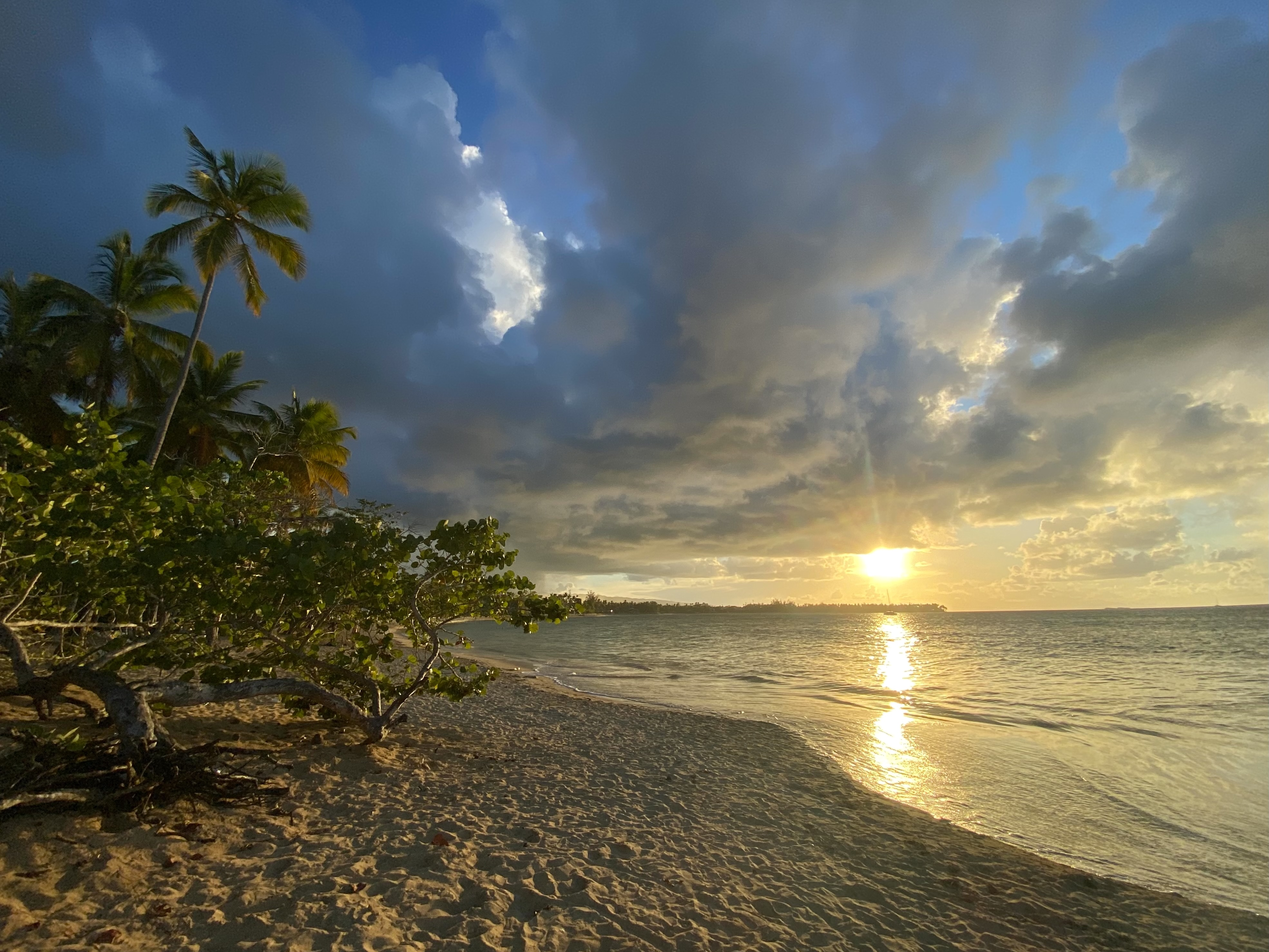
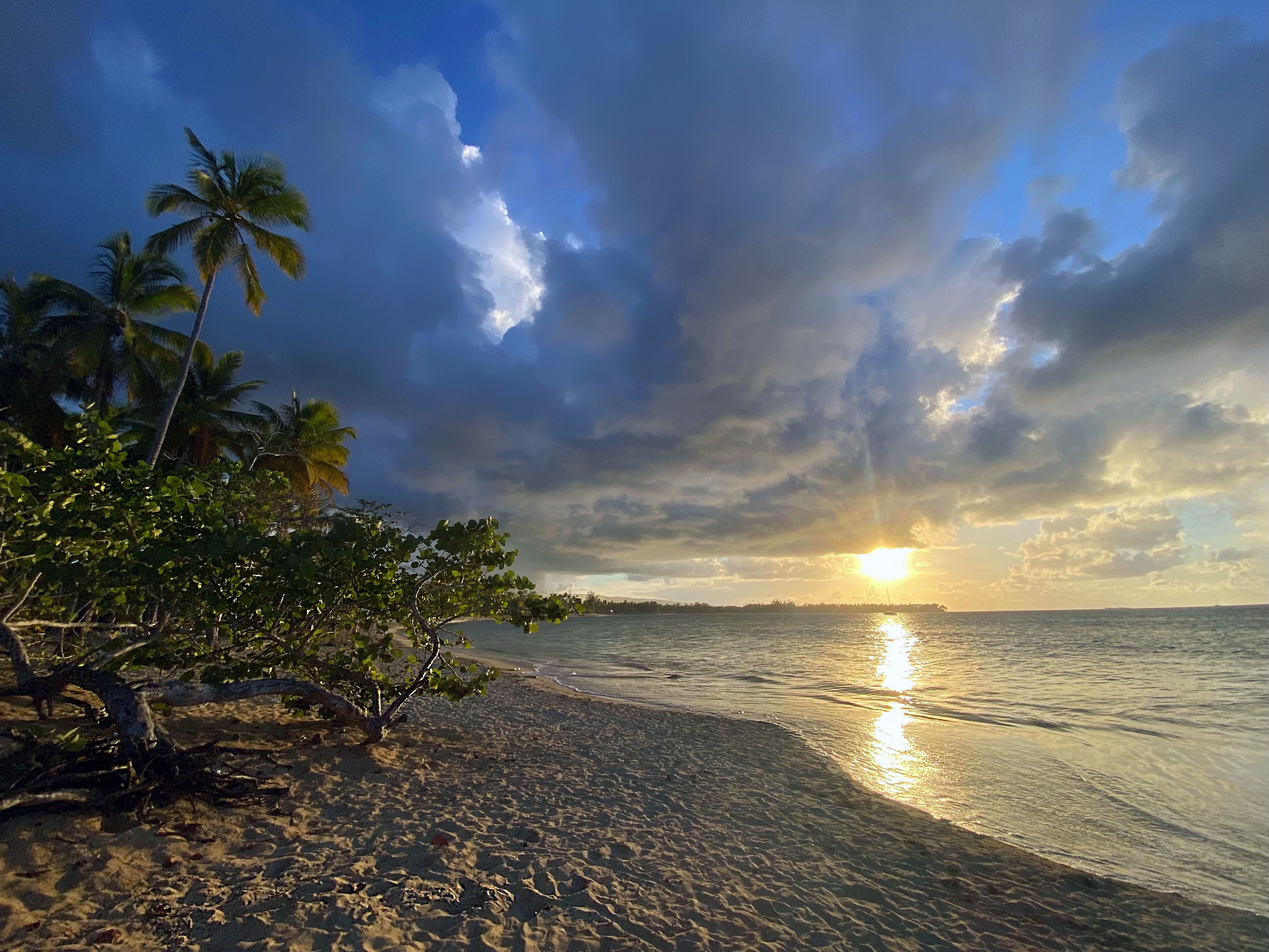
all beeches added

diff --git a/client/src/components/Hero/Hero.css b/client/src/components/Hero/Hero.css
@@ -24,10 +24,11 @@
   position: absolute;
   inset: 0;
   background:
-    radial-gradient(ellipse at 50% 40%, rgba(255, 235, 200, 0.5)  0%, transparent 55%), /* ← WARM AMBER ellipse — bottom-left: color, opacity, spread% */
-    radial-gradient(ellipse at 80% 20%, rgba(210, 230, 255, 0.38) 0%, transparent 50%), /* ← BLUE ellipse — top-right: THIS bleeds through the SectionDivider wave */
+    linear-gradient(to bottom, rgba(255, 210, 120, 0.139) 0%, transparent 40%),   /* ← GOLDEN SUNSET wash — top · dialed back (was 0.45) */
+    radial-gradient(ellipse at 50% 15%, rgba(254, 222, 159, 0.153) 0%, transparent 60%), /* ← WARM AMBER ellipse — pushed to top */
+    radial-gradient(ellipse at 80% 20%, rgba(210, 230, 255, 0.25) 0%, transparent 50%), /* ← BLUE ellipse — top-right */
     radial-gradient(ellipse at 60% 90%, rgba(220, 240, 220, 0.35) 0%, transparent 45%), /* ← SOFT GREEN ellipse — bottom-center */
-    linear-gradient(160deg, rgba(240, 244, 248, 0.68) 0%, rgba(250, 247, 242, 0.63) 10%, rgba(245, 240, 235, 0.797) 40%); /* ← BASE veil tint */
+    linear-gradient(160deg, rgba(252, 242, 220, 0.68) 0%, rgba(250, 247, 242, 0.63) 20%, rgba(245, 240, 235, 0.797) 50%); /* ← BASE veil — warmed up */
 }
 
 

diff --git a/client/src/pages/BeachesPage/BeachesPage.jsx b/client/src/pages/BeachesPage/BeachesPage.jsx
@@ -6,6 +6,7 @@ import ballenasImg   from '../../assets/images/beaches/las-ballenas.jpg'
 import rinconImg     from '../../assets/images/beaches/rincon.jpg'
 import galerasImg    from '../../assets/images/beaches/las-galeras.jpg'
 import cosonImg     from '../../assets/images/beaches/coson.jpg'
+import moronImg     from '../../assets/images/beaches/moron.jpg'
 
 const BEACHES = [
   {
@@ -51,7 +52,7 @@ const BEACHES = [
     drive:    'Drive required',
     body:     'Remote and peaceful, with almost no crowds even in high season. Pristine water, dramatic cliffs nearby, and the kind of silence that\'s hard to find anywhere on the peninsula.',
     tags:     ['Remote', 'Uncrowded', 'Pristine'],
-    image:    null,
+    image:    moronImg,
   },
   {
     id:       '06',

diff --git a/client/src/styles/_responsive.scss b/client/src/styles/_responsive.scss
@@ -88,13 +88,17 @@
 
   background: linear-gradient(
     135deg,
-    rgba(225, 230, 235, 0.97) 0%,
-    rgba(205, 213, 220, 0.95) 100%
+    rgba(220, 225, 230, 0.95) 0%,
+    rgba(200, 208, 215, 0.9)  25%,
+    rgba(230, 235, 240, 0.95) 50%,
+    rgba(195, 205, 212, 0.9)  75%,
+    rgba(215, 222, 228, 0.95) 100%
   );
   border: 1px solid rgba(180, 190, 200, 0.6);
   box-shadow:
     0 4px 16px rgba(0, 0, 0, 0.1),
-    inset 0 1px 0 rgba(255, 255, 255, 0.9);
+    inset 0 1px 0 rgba(255, 255, 255, 0.9),
+    inset 0 -1px 0 rgba(0, 0, 0, 0.05);
 
   transition: transform 0.2s ease, box-shadow 0.2s ease;
 

diff --git a/client/src/components/Gallery/Gallery.css b/client/src/components/Gallery/Gallery.css
@@ -28,6 +28,19 @@
   z-index: 2;
 }
 
+/* Edge blur — sharp center, softened perimeter */
+.gallery-slide::after {
+  content: '';
+  position: absolute;
+  inset: 0;
+  z-index: 1;
+  backdrop-filter: blur(10px);
+  -webkit-backdrop-filter: blur(10px);
+  mask-image: radial-gradient(ellipse at center, transparent 50%, black 82%);
+  -webkit-mask-image: radial-gradient(ellipse at center, transparent 50%, black 82%);
+  pointer-events: none;
+}
+
 .gallery-slide.is-prev {
   opacity: 0;
   z-index: 1;

diff --git a/client/src/pages/BeachesPage/BeachesPage.css b/client/src/pages/BeachesPage/BeachesPage.css
@@ -141,6 +141,7 @@
   aspect-ratio: 4 / 3;
   border-radius: var(--radius);
   overflow: hidden;
+  box-shadow: inset 0 0 40px 16px #f5f7fa;
 }
 
 .beach-image {
